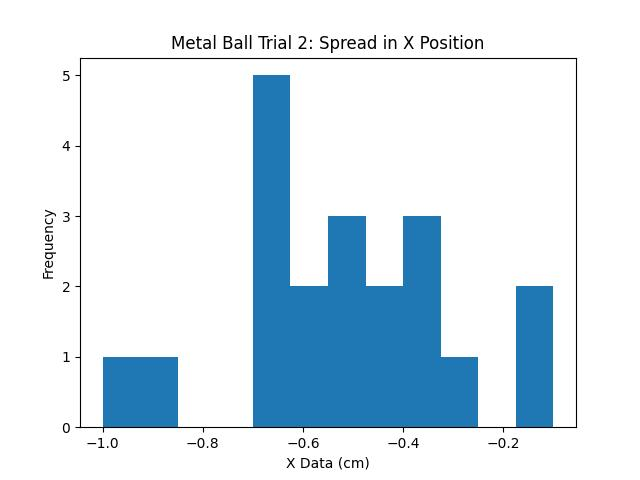
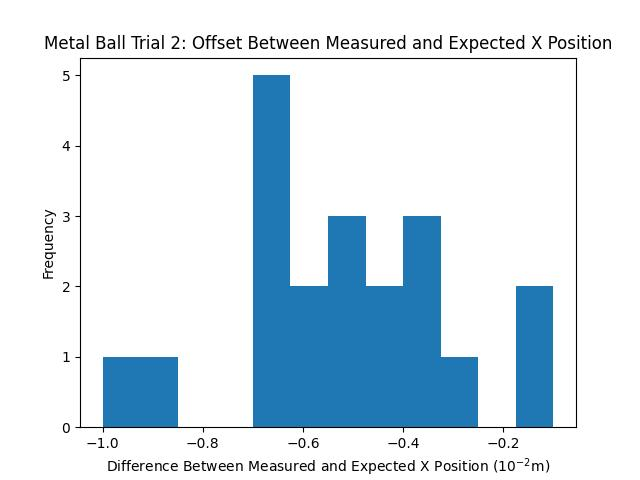
pics

Changed region(s): [[0.0625, 0.0625, 0.9688, 0.125], [0.1562, 0.9375, 0.875, 1.0]]

diff --git a/proj_motion.py b/proj_motion.py
@@ -29,18 +29,18 @@ for file in files:
     plt.hist(x, bins = 12)
     #bins=np.arange(min(x), max(x) + w, w))  # density=False would make counts
     plt.ylabel("Frequency")
-    plt.xlabel("X Data (cm)")
+    plt.xlabel("Difference Between Measured and Expected X Position ($\mathregular{10^{-2}}$m)")
     split = file.split(".", 1)
-    plt.title(hist_names[count] + ": Spread in X Position")
+    plt.title(hist_names[count] + ": Offset Between Measured and Expected X Position")
     plt.savefig(split[0] +"_x.jpg")
     plt.show()
     
     plt.hist(z, bins = 12)
     #bins=np.arange(min(x), max(x) + w, w))  # density=False would make counts
     plt.ylabel("Frequency")
-    plt.xlabel("Z Data (cm)")
+    plt.xlabel("Difference Between Measured and Expected Z Position ($\mathregular{10^{-2}}$m)")
     split = file.split(".", 1)
-    plt.title(hist_names[count] + ": Spread in Z Position")
+    plt.title(hist_names[count] + ": Offset Between Measured and Expected Z Position")
     plt.savefig(split[0] +"_z.jpg")
     plt.show()
     count += 1

diff --git a/prediction.py b/prediction.py
@@ -48,6 +48,8 @@ print("pb1: " + str(pb1))
 pb2 = predict(1.216,1.167,	1.35,1.046,	.996,	.292,	.294)
 print("pb2: " + str(pb2))
 
+#292
+
 #Metal Ball Trial 1
 mb1 = predict(1.205,	1.18,	1.26,	1.144,	1.068,	.298,	.294)
 print("mb1: " + str(mb1))
